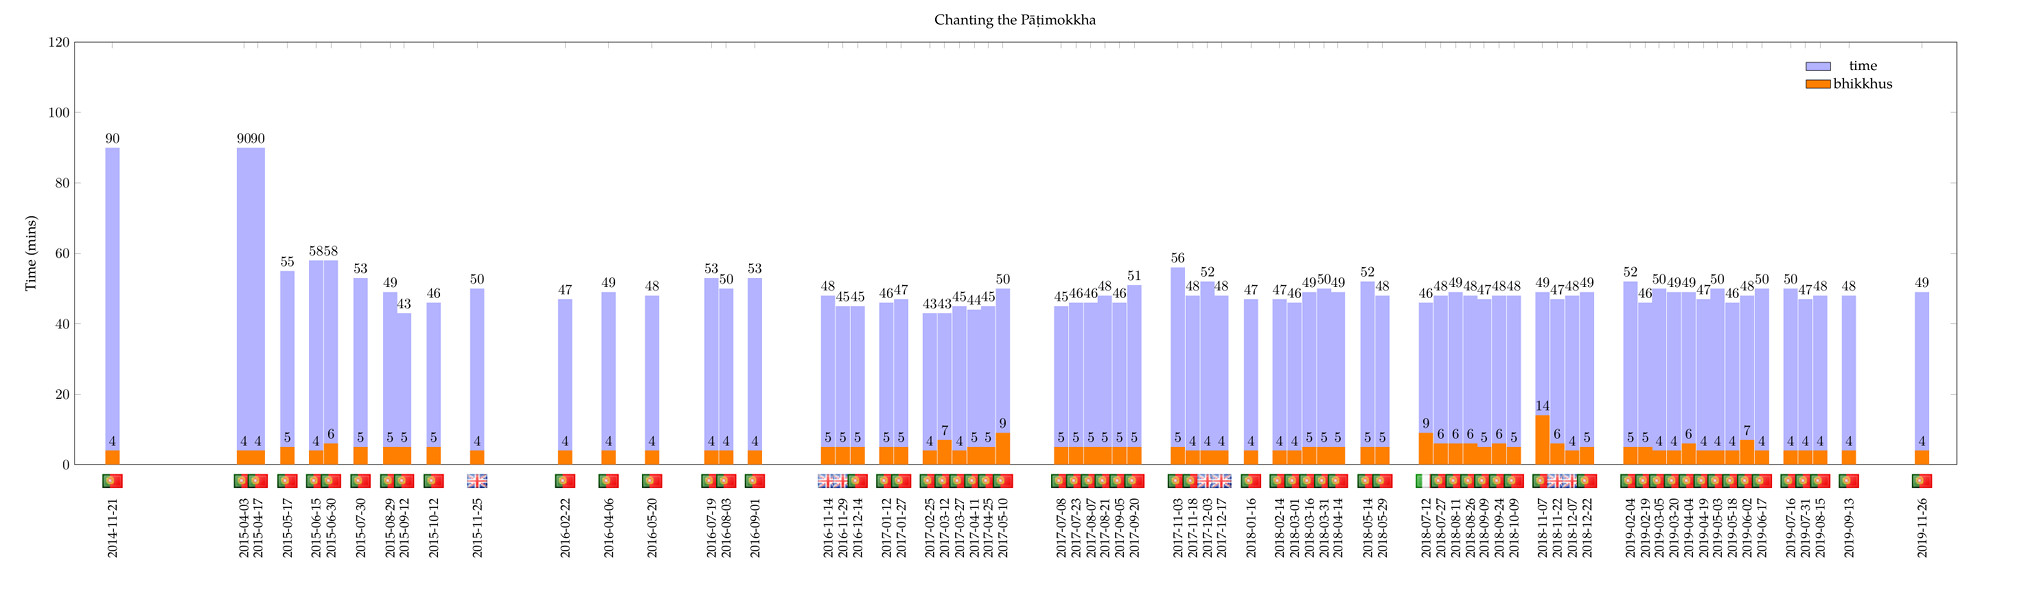
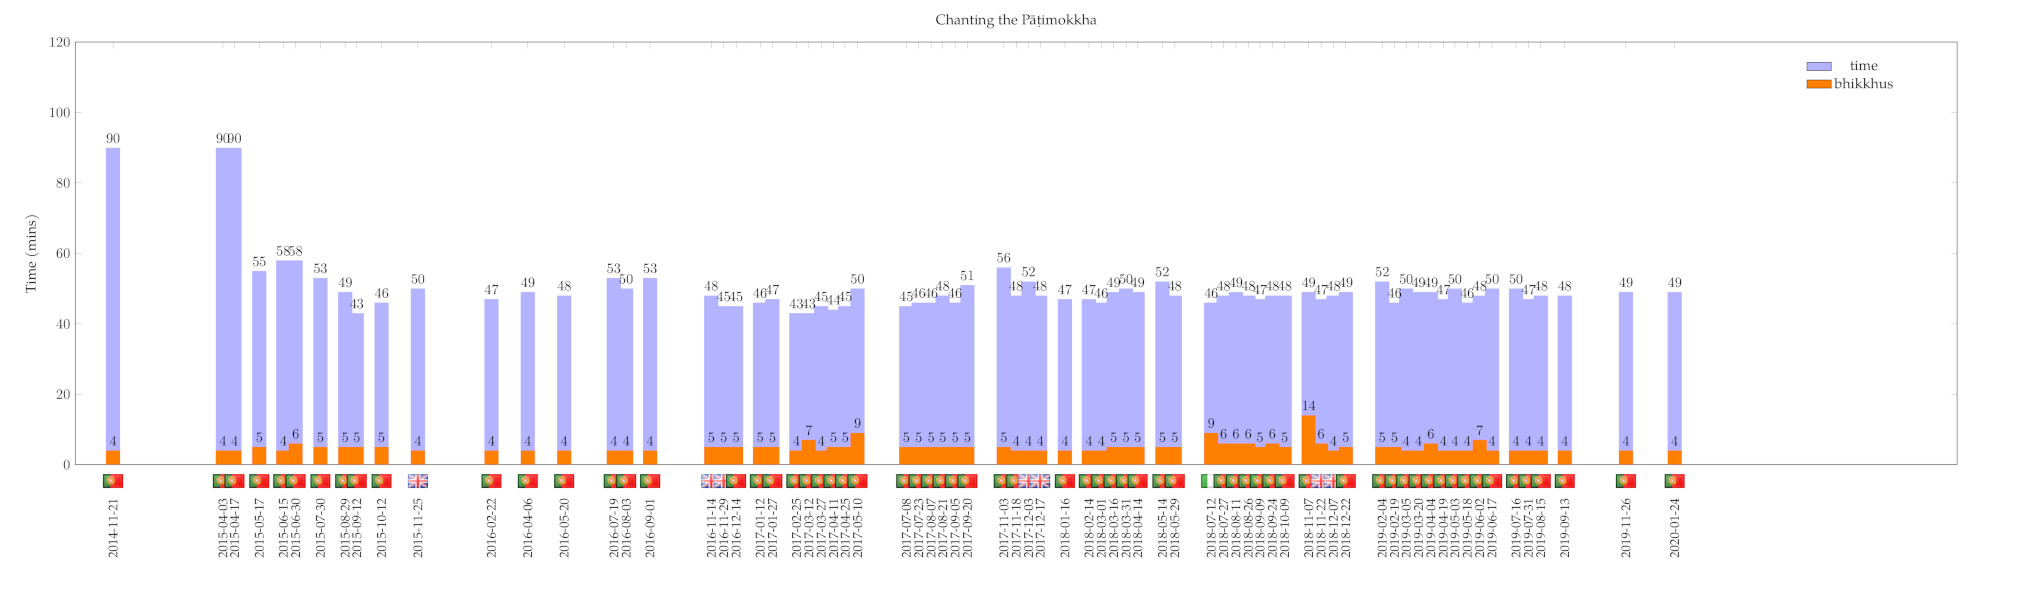
upd

diff --git a/src/patimokkha-chanting-chart.tex b/src/patimokkha-chanting-chart.tex
@@ -58,7 +58,7 @@
     ylabel=Time (mins),
     xtick=data,
     xmin=2014-11-20,
-    xmax=2019-12-31,
+    xmax=2020-12-31,
     enlarge x limits={rel=0.02,lower},
     xticklabel style={yshift=-20pt,rotate=90,anchor=east,font=\small},
     xticklabel={\year-\month-\day},
@@ -159,6 +159,7 @@
   \node [anchor=south, yshift=-20pt] at (axis cs:2019-08-15,0) {\includegraphics[width=5mm]{pt}};
   \node [anchor=south, yshift=-20pt] at (axis cs:2019-09-13,0) {\includegraphics[width=5mm]{pt}};
   \node [anchor=south, yshift=-20pt] at (axis cs:2019-11-26,0) {\includegraphics[width=5mm]{pt}};
+  \node [anchor=south, yshift=-20pt] at (axis cs:2020-01-24,0) {\includegraphics[width=5mm]{pt}};
 
 \end{axis}
 \end{tikzpicture}
